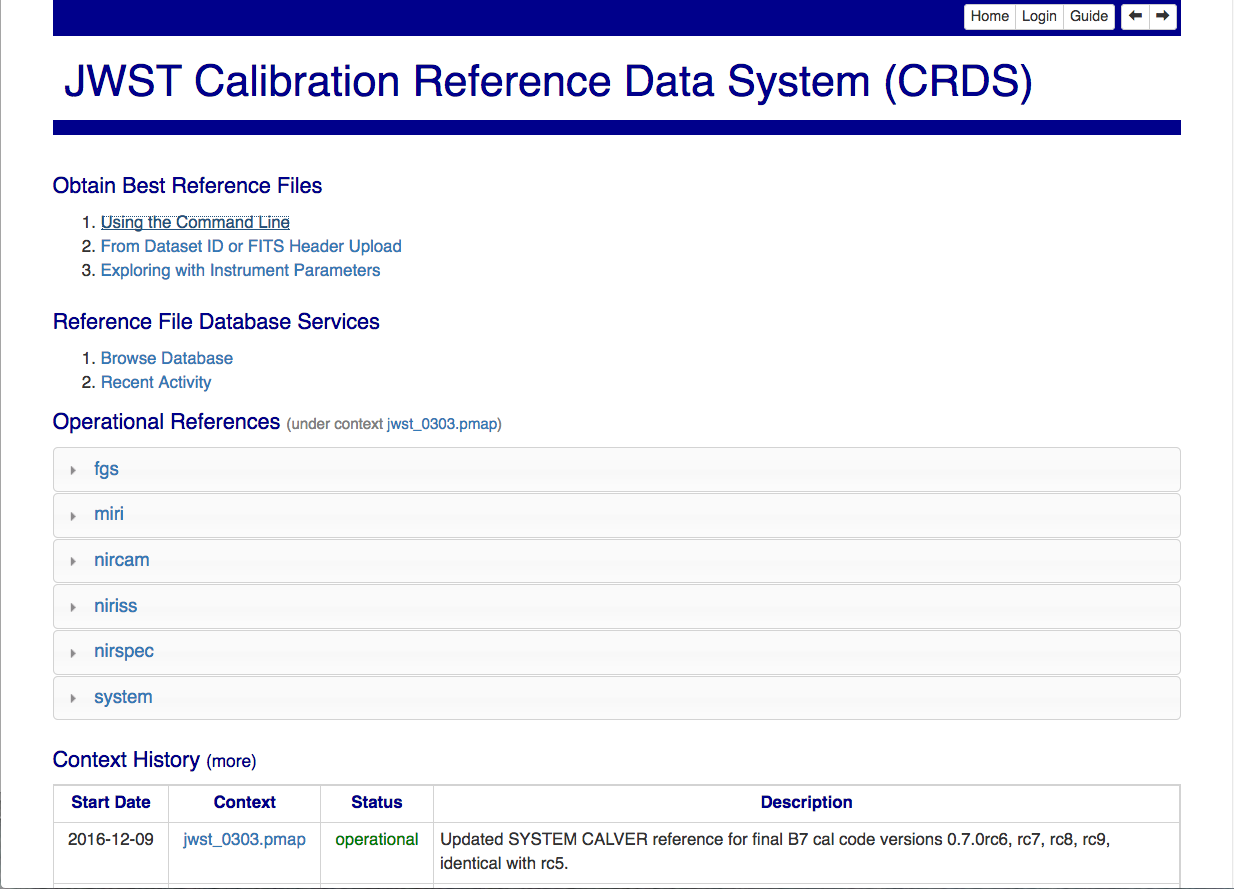
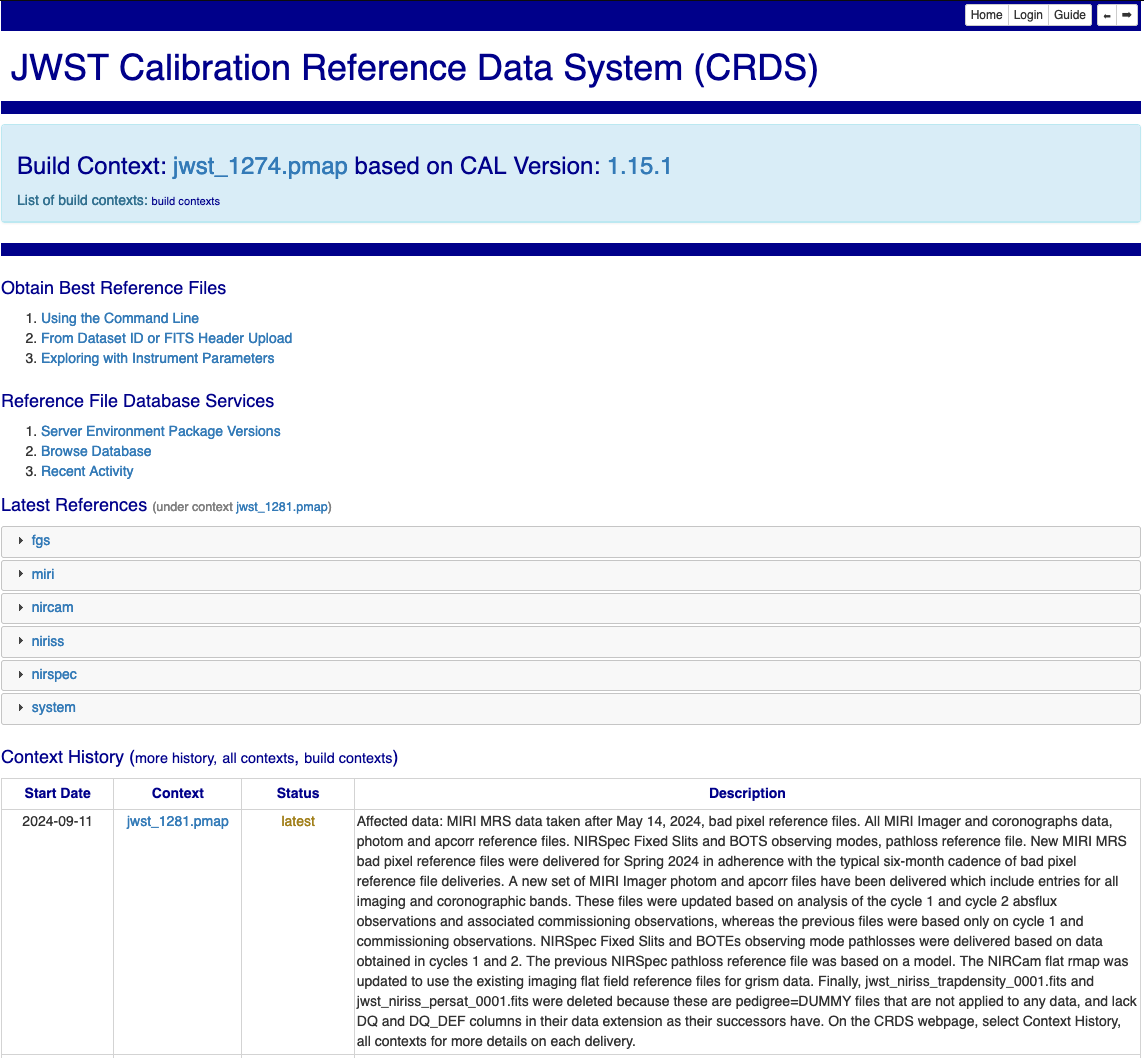
Updated first set of user guide images and descriptions.

diff --git a/documentation/crds_users_guide/source/web_site_use.rst b/documentation/crds_users_guide/source/web_site_use.rst
@@ -18,10 +18,10 @@ authentication or *private* functions which require a CRDS login account.
 Functions annotated with the word `alpha` are partially completed components of
 a future build which may prove useful now.
 
-Operational References
+Latest References
 ----------------------
 
-The *Operational References* table displays the references which are currently in use
+The *Latest References* table displays the references which are currently in use
 by the pipeline associated with this web site.   
 
 Each instrument accordion opens into reference type accordions for that instrument.
@@ -34,8 +34,7 @@ file or to a context display for a different .pmap.
 Context History (more)
 ----------------------
 
-The *Context History* displays the last 4 CRDS contexts which were in
-operational use by the pipeline. Clicking on the `more history` link will bring up
+The *Context History* displays the last 4 CRDS contexts which were the latest to be used by the pipeline. Clicking on the `more history` link will bring up
 the entire context history as a separate page as shown below:
 
 .. figure:: images/web_context_history.png
@@ -49,7 +48,7 @@ the diff button at the top of the diff column:
    :scale: 50 %
    :alt: CRDS context diff request
 
-This will display a difference page with an accorion panel for each file which
+This will display a difference page with an accordion panel for each file which
 differed between the two contexts:
     
 .. figure:: images/web_context_diff_2.png
@@ -62,6 +61,13 @@ and simple textual differences.
 The logical differences display a table of matching parameters and files which
 were added, deleted, or replaced.  The textual differences show raw UNIX diffs
 of the two rules files.
+
+Clicking on the `all contexts` link will bring up every context that has ever been delivered:
+
+.. figure:: images/web_context_all.png
+   :scale: 50 %
+   :alt: All CRDS contexts
+
 
 Clicking on any `context` link (the .pmap name) in the history table opens a
 page containing the Historical References for some point in the past, similar
